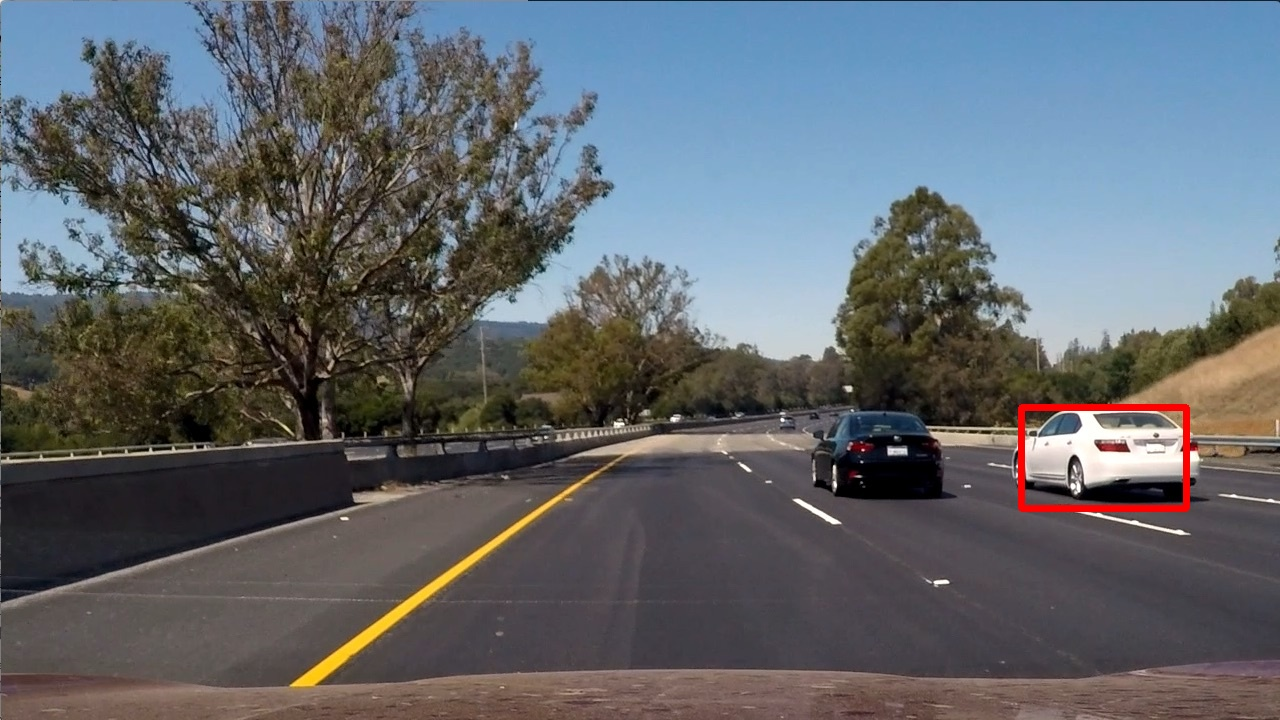
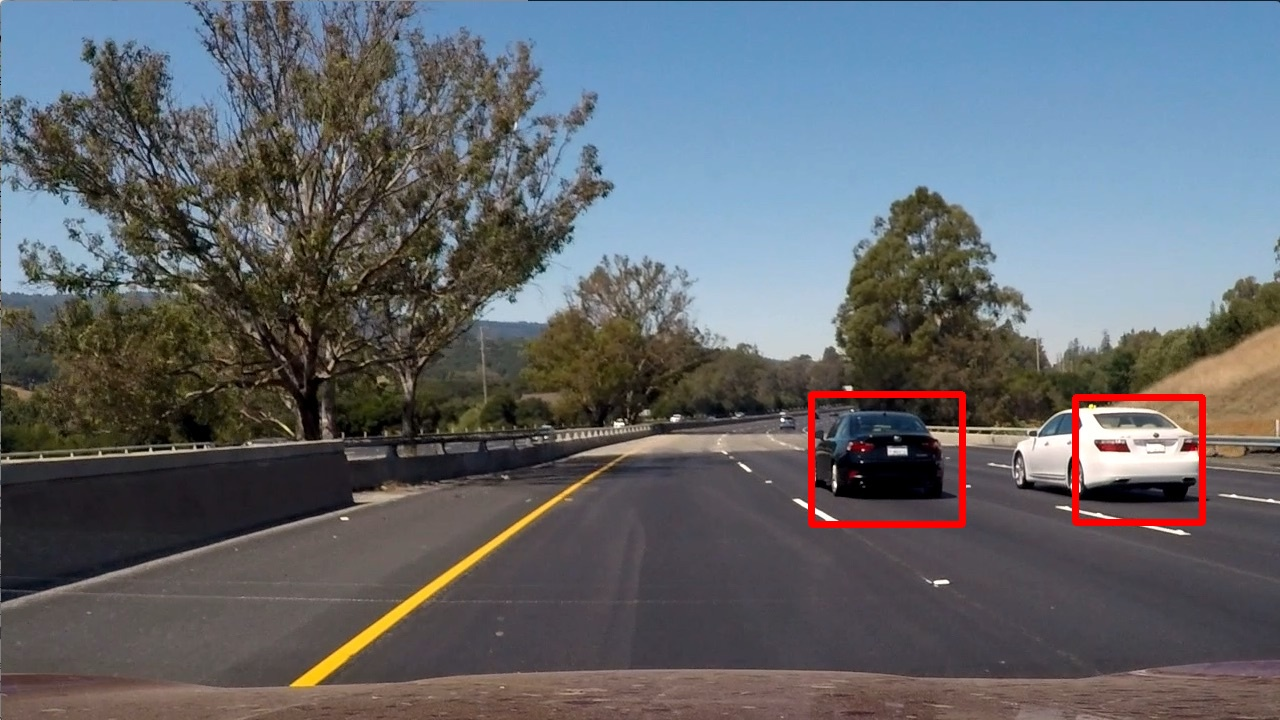
following along on Ryan's lesson:

Changed region(s): [[0.625, 0.5194, 0.9688, 0.7333]]

diff --git a/P5-Vehicle-Detection/xiaodetector/detector.py b/P5-Vehicle-Detection/xiaodetector/detector.py
@@ -5,21 +5,31 @@ from scipy.ndimage.measurements import label
 
 from .classifier import VehicleClassifier as Classifier
 
+from skimage.feature import hog
+
+def get_hog_features(img, orient, pix_per_cell, cell_per_block, 
+                        vis=False, feature_vec=True):
+    # Call with two outputs if vis==True
+    if vis == True:
+        features, hog_image = hog(img, orientations=orient, 
+                                  pixels_per_cell=(pix_per_cell, pix_per_cell),
+                                  cells_per_block=(cell_per_block, cell_per_block), 
+                                  transform_sqrt=True, 
+                                  visualise=vis, feature_vector=feature_vec)
+        return features, hog_image
+    # Otherwise call with one output
+    else:      
+        features = hog(img, orientations=orient, 
+                       pixels_per_cell=(pix_per_cell, pix_per_cell),
+                       cells_per_block=(cell_per_block, cell_per_block), 
+                       transform_sqrt=True, 
+                       visualise=vis, feature_vector=feature_vec)
+        return features
+
 class VehicleDetector(object):
 
-    def __init__(self, clf):
+    def __init__(self):
         self.classifier = Classifier()
-
-    def centroid(self, box, as_int=False):
-        x1, y1 = box[0]
-        
-        x2, y2 = box[1]
-        
-        if not as_int:
-            return ((x1+x2)/2., (y1+y2)/2.)
-        
-        else:
-            return (int((x1+x2)//2), ((y1+y2)//2))
 
     def update_heatmap(self, candidates, image_shape, heatmap=None):
         if heatmap is None:
@@ -154,27 +164,117 @@ class VehicleDetector(object):
         return on_windows
 
     def detect(self, image):
-        y_start_stop = [250, 720] # Min and max in y to search in slide_window()
+        # Define a function to draw bounding boxes
+        def draw_boxes(img, bboxes, color=(0, 0, 255), thick=6):
+            # Make a copy of the image
+            imcopy = np.copy(img)
+            # Iterate through the bounding boxes
+            for bbox in bboxes:
+                # Draw a rectangle given bbox coordinates
+                cv2.rectangle(imcopy, bbox[0], bbox[1], color, thick)
+                # Return the image copy with boxes drawn
+            return imcopy
+
+        y_start_stop = [400, 656] # Min and max in y to search in slide_window()
 
         draw_image = np.copy(image)
 
-        windows = self.slide_window(image, x_start_stop=[None, None], y_start_stop=y_start_stop, 
-                    xy_window=(64, 64), xy_overlap=(0.5, 0.5))
+        # windows = self.slide_window(image, x_start_stop=[None, None], y_start_stop=y_start_stop, 
+        #             xy_window=(64, 64), xy_overlap=(0.5, 0.5))
 
-        hot_windows = self.search_windows(image, windows)
+        roi_window = draw_image[y_start_stop[0]:y_start_stop[1],:,:]
 
-        centroids = np.array([self.centroid(w) for w in hot_windows])
+        roi_window = cv2.resize(roi_window, (np.int(roi_window.shape[1]/1.5), np.int(roi_window.shape[0]/1.5)))
 
-        current_heatmap = self.update_heatmap(hot_windows, (720, 1280))
+        feature_image = cv2.cvtColor(roi_window, cv2.COLOR_BGR2YCrCb)
 
-        thresh_heatmap = current_heatmap
+        ch1 = feature_image[:,:,0]
+        ch2 = feature_image[:,:,1]
+        ch3 = feature_image[:,:,2]
+
+        hog1 = get_hog_features(ch1, 9, 8, 2, feature_vec=False)
+
+        hog2 = get_hog_features(ch2, 9, 8, 2, feature_vec=False)
+
+        hog3 = get_hog_features(ch3, 9, 8, 2, feature_vec=False)
+
+        orient = 9  # HOG orientations
+        pix_per_cell = 8 # HOG pixels per cell
+        cell_per_block = 2 # HOG cells per block
+        window = 64
+
+        nxblocks = (roi_window.shape[1] // pix_per_cell) - 1
+        
+        nyblocks = (roi_window.shape[0] // pix_per_cell) - 1
+        
+        nfeat_per_block = orient*cell_per_block**2
+
+        nblocks_per_window = (window // pix_per_cell) -1
+        
+        cells_per_step = 2
+
+        nxsteps = (nxblocks - nblocks_per_window) // cells_per_step
+
+        nysteps = (nyblocks - nblocks_per_window) // cells_per_step
+
+        count = 0
+
+        scale = 1.5
+        
+        heatmap = np.zeros((image.shape[0], image.shape[1]), np.uint8)
+
+        for xb in range(nxsteps):
+            for yb in range(nysteps):
+
+                count += 1
+
+                try:
+                    ypos = yb*cells_per_step
+
+                    xpos = xb*cells_per_step
+
+                    hog1_features = hog1[ypos:ypos+nblocks_per_window, xpos:xpos+nblocks_per_window].ravel()
+                    
+                    hog2_features = hog2[ypos:ypos+nblocks_per_window, xpos:xpos+nblocks_per_window].ravel()
+                    
+                    hog3_features = hog2[ypos:ypos+nblocks_per_window, xpos:xpos+nblocks_per_window].ravel()
+
+                    hog_features = np.hstack((hog1_features, hog2_features, hog3_features))
+
+                    xleft = xpos*pix_per_cell
+
+                    ytop = ypos*pix_per_cell
+
+                    subimg = cv2.resize(feature_image[ytop:ytop+window, xleft:xleft+window], (64, 64))
+
+                    spatial_features = self.classifier.bin_spatial_features(subimg, (32, 32))
+
+                    color_features = self.classifier.color_hist_features(subimg)
+
+                    test_features = np.hstack((spatial_features, color_features, hog_features)).reshape((1, -1))
+                
+                    prediction = self.classifier.predict(test_features)
+
+                    if prediction == 1:
+                        xbox_left = np.int(xleft*scale)
+
+                        ytop_draw = np.int(ytop*scale)
+
+                        win_draw = np.int(window*scale)
+
+                        cv2.rectangle(draw_image, (xbox_left, ytop_draw+y_start_stop[0]), (xbox_left+win_draw, ytop_draw+win_draw+y_start_stop[0]),  (0,0,255), 6)
+
+                        heatmap[ytop_draw+y_start_stop[0]:ytop_draw+win_draw+y_start_stop[0], xbox_left:xbox_left+win_draw] += 1 
+
+                except Exception as e:
+                    raise e
     
-        thresh_heatmap[thresh_heatmap < 2] = 0
+        heatmap[heatmap < 2] = 0
         
-        cv2.GaussianBlur(thresh_heatmap, (31,31), 0, dst=thresh_heatmap)
+        cv2.GaussianBlur(heatmap, (31, 31), 0, dst=heatmap)
         
-        labels = label(thresh_heatmap)
+        labels = label(heatmap)
     
         im = self.draw_labeled_bboxes(np.copy(image), labels)
-        
-        return im
+
+        return im, labels

diff --git a/P5-Vehicle-Detection/xiaodetector/classifier.py b/P5-Vehicle-Detection/xiaodetector/classifier.py
@@ -7,11 +7,32 @@ import glob
 import numpy as np
 import cv2
 
+from skimage.feature import hog
+
 from sklearn.svm import SVC, LinearSVC
 from sklearn.preprocessing import StandardScaler
 from sklearn.pipeline import Pipeline
 from sklearn.model_selection import train_test_split
 from sklearn.metrics import accuracy_score
+
+def get_hog_features(img, orient, pix_per_cell, cell_per_block, 
+                        vis=False, feature_vec=True):
+    # Call with two outputs if vis==True
+    if vis == True:
+        features, hog_image = hog(img, orientations=orient, 
+                                  pixels_per_cell=(pix_per_cell, pix_per_cell),
+                                  cells_per_block=(cell_per_block, cell_per_block), 
+                                  transform_sqrt=True, 
+                                  visualise=vis, feature_vector=feature_vec)
+        return features, hog_image
+    # Otherwise call with one output
+    else:      
+        features = hog(img, orientations=orient, 
+                       pixels_per_cell=(pix_per_cell, pix_per_cell),
+                       cells_per_block=(cell_per_block, cell_per_block), 
+                       transform_sqrt=True, 
+                       visualise=vis, feature_vector=feature_vec)
+        return features
 
 class VehicleClassifier(object):
     
@@ -34,7 +55,7 @@ class VehicleClassifier(object):
         # Use cv2.resize().ravel() to create the feature vector
         return cv2.resize(img, size).ravel()
     
-    def color_hist_features(self, img, nbins=16, bins_range=(0, 256)):
+    def color_hist_features(self, img, nbins=32, bins_range=(0, 256)):
         
         # Compute the histogram of the color channels separately
         channel1_hist = np.histogram(img[:,:,0], bins=nbins, range=bins_range)
@@ -64,26 +85,31 @@ class VehicleClassifier(object):
     def extact_image_features(self, image, cspace='YUV', spatial_size=(32, 32),
                         hist_bins=32, hist_range=(0, 256)):
         # apply color conversion if other than 'RGB'
-        if cspace != 'RGB':
-            if cspace == 'HSV':
-                feature_image = cv2.cvtColor(image, cv2.COLOR_BGR2HSV)
-            elif cspace == 'LUV':
-                feature_image = cv2.cvtColor(image, cv2.COLOR_BGR2LUV)
-            elif cspace == 'HLS':
-                feature_image = cv2.cvtColor(image, cv2.COLOR_BGR2HLS)
-            elif cspace == 'YUV':
-                feature_image = cv2.cvtColor(image, cv2.COLOR_BGR2YUV)
-            
-            else: feature_image = np.copy(image)      
+        feature_image = cv2.cvtColor(image, cv2.COLOR_BGR2YCrCb)
                 
         # Apply bin_spatial() to get spatial color features
-        spatial_features = self.bin_spatial_features(feature_image, spatial_size)
+        spatial_features = self.bin_spatial_features(feature_image, (32, 32))
             
         # Apply color_hist() also with a color space option now
-        hist_features = self.color_hist_features(feature_image, nbins=hist_bins, bins_range=hist_range)
+        hist_features = self.color_hist_features(feature_image)
 
         # Apply hog_features() also to get shape related featuers
-        hog_features = self.hog.compute(feature_image[:,:,0])[:,0]
+        # hog_features = self.hog.compute(feature_image[:,:,0])[:,0]
+
+        # hog_features = get_hog_features(cv2.cvtColor(image, cv2.COLOR_BGR2GRAY), 9, 8, 2, feature_vec=False).ravel()
+
+        ch1 = feature_image[:,:,0]
+        ch2 = feature_image[:,:,1]
+        ch3 = feature_image[:,:,2]
+
+        hog1 = get_hog_features(ch1, 9, 8, 2, feature_vec=False).ravel()
+
+        hog2 = get_hog_features(ch2, 9, 8, 2, feature_vec=False).ravel()
+
+        hog3 = get_hog_features(ch3, 9, 8, 2, feature_vec=False).ravel()
+
+
+        hog_features = np.hstack((hog1, hog2, hog3))
 
         # Append the new feature vector to the features list
         return np.concatenate((spatial_features, hist_features, hog_features))
@@ -141,7 +167,9 @@ class VehicleClassifier(object):
         
         x = np.vstack((vehicle_features, n_vehicle_features)).astype(np.float64)
         
-        x = x.reshape((x.shape[0], -1), order='F')
+        # x = x.reshape((x.shape[0], -1), order='F')
+
+        # x = x.reshape((1, -1))
         
         y = np.hstack((y_vehicles, y_n_vehicles))
 
@@ -167,3 +195,9 @@ class VehicleClassifier(object):
         self.clf = pickle.load(open(self.location+'/model/model.p', 'rb'))
 
         return self.clf.predict(features)
+
+
+    def score(self):
+        self.load_data()
+        self.clf = pickle.load(open(self.location+'/model/model.p', 'rb'))
+        print(self.clf.score(self.X_test, self.y_test))

diff --git a/P5-Vehicle-Detection/main.py b/P5-Vehicle-Detection/main.py
@@ -4,8 +4,7 @@ import pickle
 import argparse
 import cv2
 
-from xiaodetector import Classifier
-from xiaodetector import Detector
+from xiaodetector import Tracker, Classifier
 
 def make_args():
 	parser = argparse.ArgumentParser(description='')
@@ -33,15 +32,23 @@ def return_model(args):
 		return pickle.load(open('./model/model.p', 'rb'))
 
 if __name__ == '__main__':
-	parser = make_args()
 
-	args = parser.parse_args()
-
-	clf = return_model(args)
-
-	detector = Detector(clf)
+	tracker = Tracker()
 
 	for img in os.listdir('./test_images'):
-		image = cv2.imread('./test_images/'+img)
-		im = detector.detect(image)
-		cv2.imwrite('./output_images/'+img, im)
+		try:
+			image = cv2.imread('./test_images/'+img)
+			im = tracker.track(image)
+			cv2.imwrite('./output_images/'+img, im)
+			break
+		except Exception as e:
+			raise e
+			break
+	# svm = Classifier()
+	
+	# svm.load_data()
+
+	# svm.save_model()
+	
+	# svm.score()		
+	

diff --git a/P5-Vehicle-Detection/xiaodetector/tracker.py b/P5-Vehicle-Detection/xiaodetector/tracker.py
@@ -1,0 +1,13 @@
+import collections
+
+from .detector import VehicleDetector as Detector
+
+class VehicleTracker(object):
+
+	def __init__(self):
+		self.detector = Detector()
+
+	def track(self, image):
+		im, labels = self.detector.detect(image)
+		
+		return im

diff --git a/P5-Vehicle-Detection/xiaodetector/__init__.py b/P5-Vehicle-Detection/xiaodetector/__init__.py
@@ -1,2 +1,3 @@
 from .classifier import VehicleClassifier as Classifier
 from .detector import VehicleDetector as Detector
+from .tracker import VehicleTracker as Tracker
